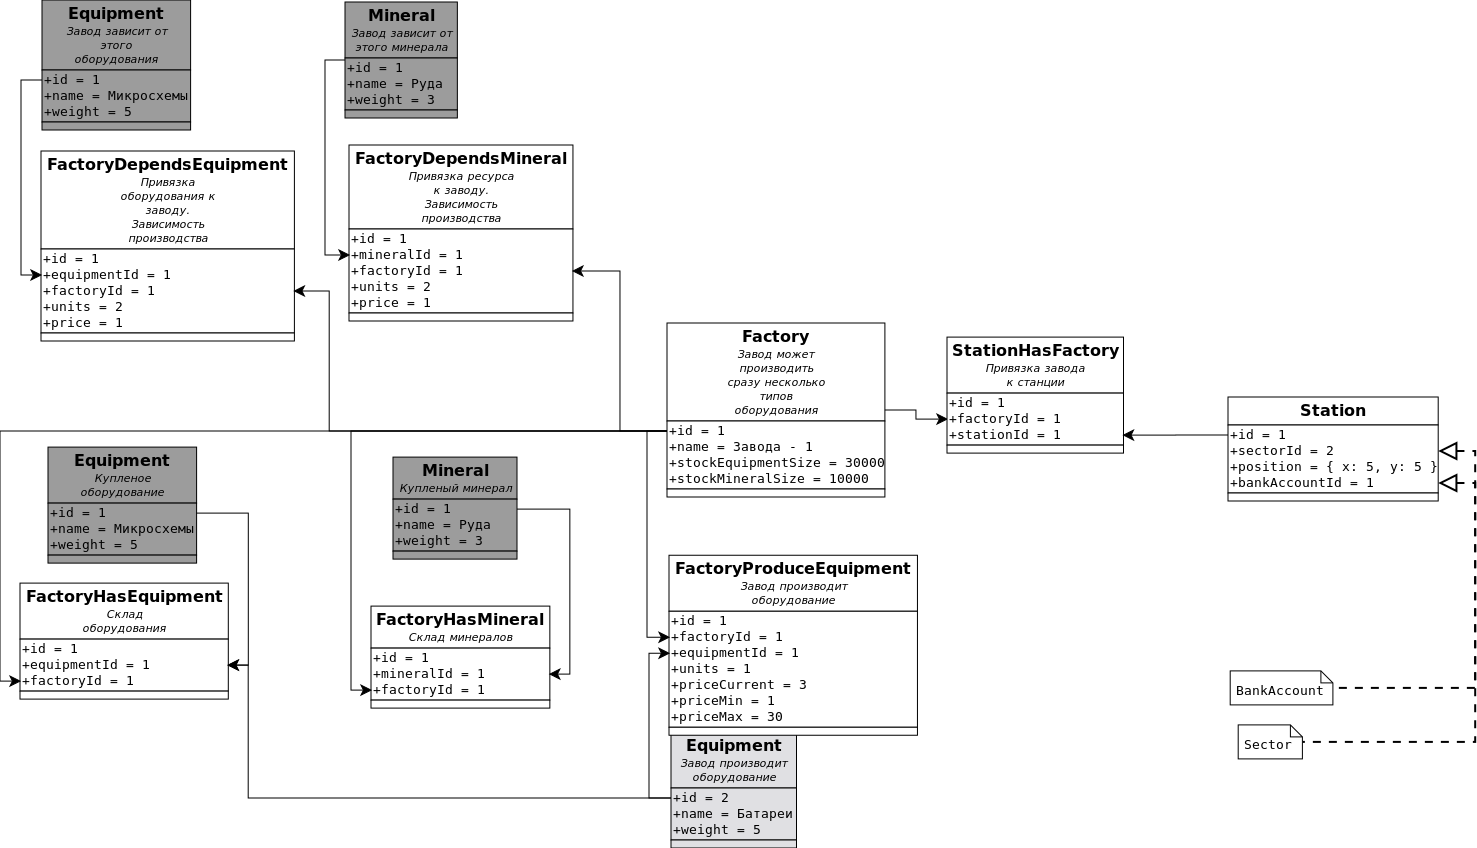
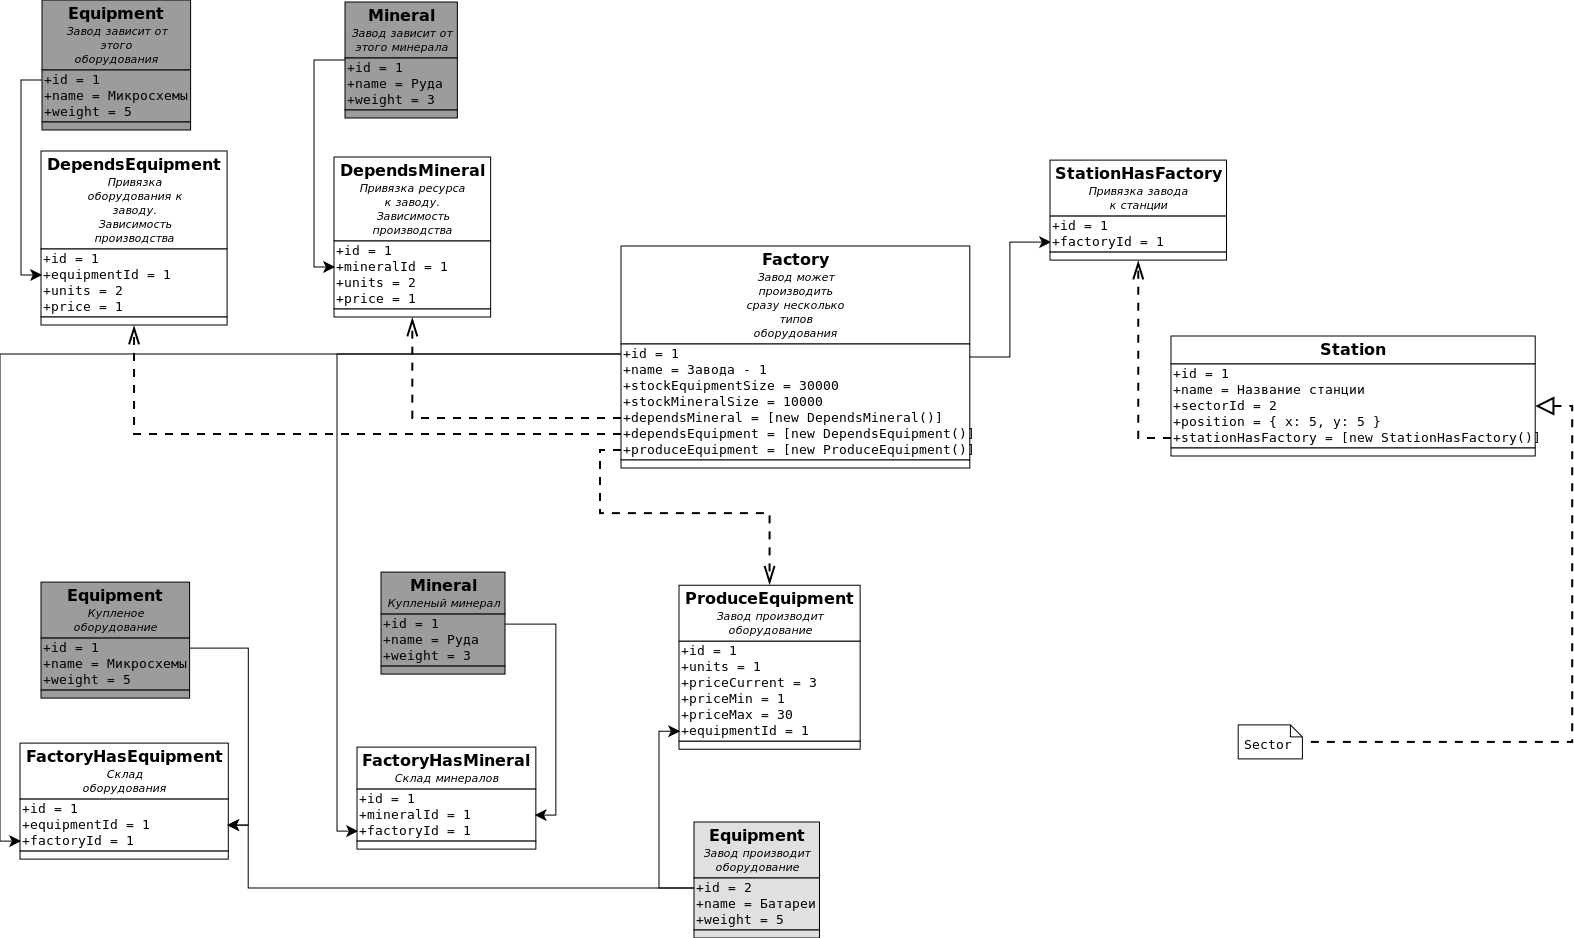
Update entities

diff --git a/entity/station/Factory.js b/entity/station/Factory.js
@@ -1,4 +1,7 @@
 import uuidV4 from 'uuid/v4'
+import DependMineral from './dependence/DependMineral'
+import DependEquipment from './dependence/DependEquipment'
+import ProduceEquipment from './dependence/ProduceEquipment'
 
 /**
  * Завод может производить сразу несколько типов оборудования
@@ -30,6 +33,63 @@ class Factory {
      * @type {number}
      */
     this.stockMineralSize = 3000
+
+    /**
+     *
+     * @type {Array.<ProduceEquipment>}
+     */
+    this.produceEquipment = []
+
+    /**
+     *
+     * @type {Array.<DependMineral>}
+     */
+    this.dependMineral = []
+
+    /**
+     *
+     * @type {Array.<DependEquipment>}
+     */
+    this.dependEquipment = []
+  }
+
+  /**
+   *
+   * @param {string} mineralId
+   * @returns {Factory}
+   */
+  addDependMineral(mineralId) {
+    this.dependMineral.push(
+      new DependMineral()
+        .setMineralId(mineralId)
+    )
+    return this
+  }
+
+  /**
+   *
+   * @param {string} equipmentId
+   * @returns {Factory}
+   */
+  addDependEquipment(equipmentId) {
+    this.dependEquipment.push(
+      new DependEquipment()
+        .setEquipmentId(equipmentId)
+    )
+    return this
+  }
+
+  /**
+   *
+   * @param {string} equipmentId
+   * @returns {Factory}
+   */
+  addProduceEquipment(equipmentId) {
+    this.produceEquipment.push(
+      new ProduceEquipment()
+        .setEquipmentId(equipmentId)
+    )
+    return this
   }
 }
 

diff --git a/entity/station/dependence/ProduceEquipment.js b/entity/station/dependence/ProduceEquipment.js
@@ -3,18 +3,12 @@ import uuidV4 from 'uuid/v4'
 /**
  * Завод производит оборудование
  */
-class FactoryProduceEquipment {
+class ProduceEquipment {
   constructor() {
     /**
      * @type {string}
      */
     this.id = uuidV4()
-
-    /**
-     *
-     * @type {string}
-     */
-    this.factoryId = null
 
     /**
      *
@@ -50,6 +44,56 @@ class FactoryProduceEquipment {
      */
     this.priceMax = 30
   }
+
+  /**
+   *
+   * @param {number} value
+   * @returns {ProduceEquipment}
+   */
+  setUnits(value) {
+    this.units = value
+    return this
+  }
+
+  /**
+   *
+   * @param {number} value
+   * @returns {ProduceEquipment}
+   */
+  setPriceCurrent(value) {
+    this.priceCurrent = value
+    return this
+  }
+
+  /**
+   *
+   * @param {number} value
+   * @returns {ProduceEquipment}
+   */
+  setPriceMin(value) {
+    this.priceMin = value
+    return this
+  }
+
+  /**
+   *
+   * @param {number} value
+   * @returns {ProduceEquipment}
+   */
+  setPriceMax(value) {
+    this.priceMax = value
+    return this
+  }
+
+  /**
+   *
+   * @param {string} id
+   * @returns {ProduceEquipment}
+   */
+  setEquipmentId(id) {
+    this.equipmentId = id
+    return this
+  }
 }
 
-export default FactoryProduceEquipment
+export default ProduceEquipment

diff --git a/entity/station/dependence/DependEquipment.js b/entity/station/dependence/DependEquipment.js
@@ -4,18 +4,12 @@ import uuidV4 from 'uuid/v4'
  * Привязка оборудования к заводу.
  * Зависимость производства
  */
-class FactoryDependsEquipment {
+class DependEquipment {
   constructor() {
     /**
      * @type {string}
      */
     this.id = uuidV4()
-
-    /**
-     *
-     * @type {string}
-     */
-    this.factoryId = null
 
     /**
      *
@@ -37,6 +31,36 @@ class FactoryDependsEquipment {
      */
     this.price = 1
   }
+
+  /**
+   *
+   * @param {number} value
+   * @returns {DependEquipment}
+   */
+  setUnits(value) {
+    this.units = value
+    return this
+  }
+
+  /**
+   *
+   * @param {number} value
+   * @returns {DependEquipment}
+   */
+  setPriceMax(value) {
+    this.price = value
+    return this
+  }
+
+  /**
+   *
+   * @param {string} id
+   * @returns {DependEquipment}
+   */
+  setEquipmentId(id) {
+    this.equipmentId = id
+    return this
+  }
 }
 
-export default FactoryDependsEquipment
+export default DependEquipment

diff --git a/entity/station/dependence/DependMineral.js b/entity/station/dependence/DependMineral.js
@@ -4,18 +4,12 @@ import uuidV4 from 'uuid/v4'
  * Привязка минерала к заводу.
  * Зависимость производства
  */
-class FactoryDependsMineral {
+class DependMineral {
   constructor() {
     /**
      * @type {string}
      */
     this.id = uuidV4()
-
-    /**
-     *
-     * @type {string}
-     */
-    this.factoryId = null
 
     /**
      *
@@ -37,6 +31,36 @@ class FactoryDependsMineral {
      */
     this.price = 1
   }
+
+  /**
+   *
+   * @param {number} value
+   * @returns {DependMineral}
+   */
+  setUnits(value) {
+    this.units = value
+    return this
+  }
+
+  /**
+   *
+   * @param {number} value
+   * @returns {DependMineral}
+   */
+  setPriceMax(value) {
+    this.price = value
+    return this
+  }
+
+  /**
+   *
+   * @param {string} id
+   * @returns {DependMineral}
+   */
+  setMineralId(id) {
+    this.mineralId = id
+    return this
+  }
 }
 
-export default FactoryDependsMineral
+export default DependMineral
